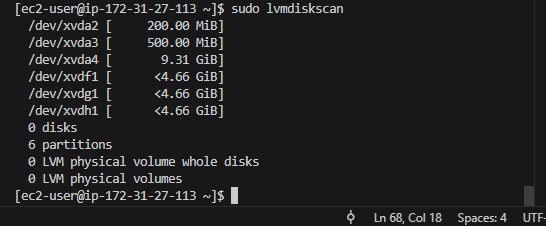
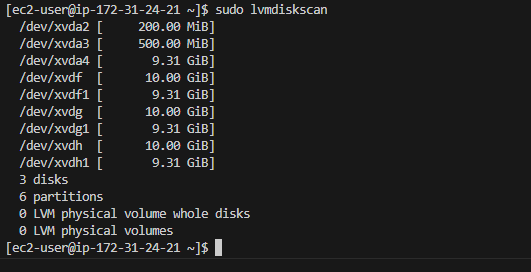
sent

Changed region(s): [[0.0, 0.0, 0.6328, 0.9602], [0.8437, 0.8053, 1.0, 0.9912], [0.6328, 0.9292, 0.8136, 0.9912]]

diff --git a/09.Three-Tier Arch with LVM Storage/Readme.md b/09.Three-Tier Arch with LVM Storage/Readme.md
@@ -7,7 +7,10 @@
 ### Purpose: Implement a Three Tier Architecture WordPress Website  with LVN Storage Management
 
 
-Steps are in Two Parts:
+![Alt text](img/00.three_tier.png)
+
+
+Projects steps are in Three Parts:
 
 Part 1
 
@@ -44,9 +47,9 @@ You can actually select the whole disk volume for partition
 
 
 3. Create Primary Partition in Volumes
-    ```sudo parted -s /dev/xvdf mkpart primary ext4 1 5G```  Command creates new partition in individual disk/volume xvdf
-    ```sudo parted -s /dev/xvdg mkpart primary ext4 1 5G```  Command creates new partition in individual disk/volume xvdg
-    ```sudo parted -s /dev/xvdh mkpart primary ext4 1 5G```  Command creates new partition in individual disk/volume xvdh
+    ```sudo parted -s /dev/xvdf mkpart primary ext4 1 10G```  Command creates new partition in individual disk/volume xvdf
+    ```sudo parted -s /dev/xvdg mkpart primary ext4 1 10G```  Command creates new partition in individual disk/volume xvdg
+    ```sudo parted -s /dev/xvdh mkpart primary ext4 1 10G```  Command creates new partition in individual disk/volume xvdh
 
     ![Alt text](img/2a.partition.png)
 
@@ -122,7 +125,7 @@ You can actually select the whole disk volume for partition
 9.  Finally,
 
    ```sudo lsblk```
-   ![Alt text](img/3d.interesting.png)
+   ![Alt text](img/3d.lsblk.png)
 
     
    Format the logical volumes
@@ -159,24 +162,26 @@ You can actually select the whole disk volume for partition
 
    sudo blkid
 
-   Update /etc/fstab  with the UUIDs of app-lv in boot line and logs-lv in the other with the `sudo vi /etc/fstab`
+   Update /etc/fstab  with the UUIDs of app-lv in boot line and logs-lv in the other with the 
+   
+   `sudo vi /etc/fstab`
 
-   sudo mount -a
+   `sudo mount -a`
 
-   sudo systemctl daemon-reload
+   `sudo systemctl daemon-reload`
 
    ***
  
-
-   ![Alt text](img/4a.copylogs.png) 
+  
+   ![Alt text](img/4a.resync.png) 
    
-   ![Alt text](img/4b.resync.png) 
+   ![Alt text](img/4b.blkid.png) 
    
-   ![Alt text](img/4c.blkid.png) 
+   ![Alt text](img/4c.vi.png) 
+   UUID="902391bc-1b25-467b-9254-62509d0a85bd  apps
+   UUID="28dee8af-8305-4c3b-8056-0319f1d3f301  logs
    
-   ![Alt text](img/4d.vi.png) 
-   
-   ![Alt text](img/4e.propermount.png) 
+   ![Alt text](img/4d.propermount.png) 
    
    ![Alt text](img/4f.df-h.png)
 
@@ -228,11 +233,9 @@ Configure SELinux Policies
     sudo setsebool -P httpd_can_network_connect=1
 
 
-Install MySQL Client
 
-Connect to remote MYSQL SERVER
 
-Test your setup 
+
 
 
 
@@ -261,6 +264,7 @@ Part 2
 ![Alt text](img/6a.db_vols.png) 
 
 ![Alt text](img/6b.vol.png) 
+
 Volume was attached from the Launch of Instance
 
 2. Create and attach 3 Volumes to the DB Server
@@ -269,14 +273,18 @@ Volume was attached from the Launch of Instance
 #### create a label for the attached volume
 ***
 sudo parted -s /dev/xvdb mklabel msdos   
+
 sudo parted -s /dev/xvdc mklabel msdos
+
 sudo parted -s /dev/xvdd mklabel msdos
 ***
 
 #### create Only One partition in each the attached volume
 ***
 sudo parted -s /dev/xvdb mkpart primary ext4 1 10G
+
 sudo parted -s /dev/xvdc mkpart primary ext4 1 10G
+
 sudo parted -s /dev/xvdd mkpart primary ext4 1 10G
 ***
 ![Alt text](img/6c.lb_partition.png)
@@ -284,8 +292,10 @@ sudo parted -s /dev/xvdd mkpart primary ext4 1 10G
 
 #### Format the partitions
 ***
-sudo mkfs.ext4 /dev/xvdb    
+sudo mkfs.ext4 /dev/xvdb 
+
 sudo mkfs.ext4 /dev/xvdc
+
 sudo mkfs.ext4 /dev/xvdd    
 ***
 ![Alt text](img/6d.formatting.png)
@@ -294,7 +304,10 @@ sudo mkfs.ext4 /dev/xvdd
 #### Install lvm
 ***
 sudo yum install lvm2   installs lvm for storage management and utility
+
 sudo lvmdiskscan
+
+
 
 #### Create Physical Volumes
 ***
@@ -309,15 +322,19 @@ pvcreate /dev/xvdd1
 
 #### Create Volume Group(VG)
 ***
-sudo vgcreate webdata-vg /dev/xvdb1 /dev/xvdc1 /dev/xvdd1  // Collate the physical volume into a volume group, which can be further divided into logical groups.
+sudo vgcreate webdata-vg /dev/xvdb1 /dev/xvdc1 /dev/xvdd1  // Collate the physical volume into a volume group, which can be further divided into logical groups.  // I should have used dbdata-vg here. I have to rename it.
 
 sudo vgrename webdata-vg dbdata-vg     // Change name from webdata to dbdata-vg
+
 sudo vgdisplay                        // Display name  of vg
+
 sudo vgs                             //Diplay content of vg
 ***
 
 ![Alt text](img/6f.vg_create.png) 
 ![Alt text](img/6g.x_vgname.png)
+
+
 
 
 #### Create the Logical Volume(LV) in the VG with relevant properties 
@@ -332,9 +349,11 @@ sudo lvs lists and describe logical volumes available
 ![Alt text](img/6h.lv_create.png)
 
 
+
 #### Format LV
 ***
 sudo mkfs -t ext4 /dev/dbdata-vg/db-lv
+
 sudo mkfs -t ext4 /dev/dbdata-vg/logs-lv
 ***
 ![Alt text](img/6i.format_lv.png)
@@ -379,10 +398,11 @@ ea3ff10b-2ae7-490d-9348-4e83310c9983 db--lv
 
 #### Install MySQL Server
 
+***
 sudo yum update
 sudo yum install mysql-server
 
-sudo systemctl status mysqld
+sudo systemctl status mysqld 
 
 if not running
 
@@ -400,7 +420,7 @@ mysql> GRANT ALL ON wordpress.* TO 'tope'@'172.31.24.21';   //172.31.24.21 <Web-
 mysql> FLUSH PRIVILEGES;
 mysql> SHOW DATABASES;
 
-mysql> SELECT user FROM mysql.user;    displays a list of users on the BD
+mysql> SELECT user FROM mysql.user;    displays a list of users on the DB
 mysql> SHOW GRANTS FOR 'tope'@'172.31.24.21';  display priviledges of a user
 
 
@@ -410,34 +430,67 @@ mysql> SHOW GRANTS FOR 'tope'@'172.31.24.21';  display priviledges of a user
 
 ![Alt text](img/7b.serversideshow.png)
 
+![Alt text](img/7c.usersMysql.png)
 
 
 
 
+Part 3:
 
-d. Mount the db-lv and db-pv on /db
+#### Remote Connection to Database : 
 
-4. a. Install MYSQL SERVER 
-   b. Configure Root User
-   c. Open port 3306 for WebServer only remote connection
+```sudo dnf install mysql```
+
+![Alt text](img/8a.instalmysqlclient.png)
+
+The syntax is: mysql -h host -P port -u user -p
+
+```mysql -h 172.31.42.143 -P 3306 -u tope -p```
+
+![Alt text](img/8a.remoteDB.png)
 
 
 
+#### Change the permissions and configuration so Apache could use WordPress
 
-(Altaro: Hyper-v Storage Best-Pratices)[https://www.altaro.com/hyper-v/hyper-v-storage-best-practices-configuration/]
+1. Make sure that the files and directories of your WordPress installation are owned by the Apache user (usually www-data) and group. 
+For example, if your WordPress files are in /var/www/html, you can use the command
 
-[Microsoft: Deploy Storage Spaces on a stand-alone server](https://learn.microsoft.com/en-us/windows-server/storage/storage-spaces/deploy-standalone-storage-spaces)
+```sudo chown www-data:www-data -R /var/www/html```
+
+
+2. Make sure that the files and directories of your WordPress installation have the correct permissions. You can use the chmod command to do this. For example, you can use the commands2:
+
+```sudo find /var/www/html -type d -exec chmod 755 {} \;```
+
+```sudo find /var/www/html -type f -exec chmod 644 {} \;```
+
+These commands will set the permissions of the directories to 755 (rwxr-xr-x) and the files to 644 (rw-r–r–), which means that the owner can read, write, and execute, while the group and others can only read and execute.
+
+3. Make sure that the Apache configuration file allows the use of mod_rewrite, which is a module that WordPress uses to create SEO-friendly URLs. You can use the a2enmod command to enable mod_rewrite. For example, you can use the command3:
+
+```sudo a2enmod rewrite```
+
+
+4. Make sure that the Apache configuration file sets the document root to the directory where your WordPress files are located. You can use a text editor to edit the configuration file, which is usually located at /etc/apache2/sites-available/000-default.conf.
+
+```sudo nano /etc/apache2/sites-available/000-default.conf.```
+
+
+
 
 
 
 #### REFERENCES
 
+1. (Altaro: Hyper-v Storage Best-Pratices)[https://www.altaro.com/hyper-v/hyper-v-storage-best-practices-configuration/]
 
+2. [Microsoft: Deploy Storage Spaces on a stand-alone server](https://learn.microsoft.com/en-us/windows-server/storage/storage-spaces/deploy-standalone-storage-spaces)
 
-1. [Brentozar: Does Separating Data and Log Files Make Your Server More Reliable?](https://www.brentozar.com/archive/2017/06/separating-data-log-files-make-server-reliable/)
+3. [Brentozar: Does Separating Data and Log Files Make Your Server More Reliable?](https://www.brentozar.com/archive/2017/06/separating-data-log-files-make-server-reliable/)
 
-2. [forbes.com: Why Migrate To The Cloud: The Basics, Benefits And Real-Life Examples](https://www.forbes.com/sites/forbestechcouncil/2021/03/12/why-migrate-to-the-cloud-the-basics-benefits-and-real-life-examples/?sh=127748385e27)
+4. [forbes.com: Why Migrate To The Cloud: The Basics, Benefits And Real-Life Examples](https://www.forbes.com/sites/forbestechcouncil/2021/03/12/why-migrate-to-the-cloud-the-basics-benefits-and-real-life-examples/?sh=127748385e27)
 
-3. [dba.stackexchange.com: SQL Server - Benefits of splitting databases across different logical drives](https://dba.stackexchange.com/questions/280269/sql-server-benefits-of-splitting-databases-across-different-logical-drives)
+5. [dba.stackexchange.com: SQL Server - Benefits of splitting databases across different logical drives](https://dba.stackexchange.com/questions/280269/sql-server-benefits-of-splitting-databases-across-different-logical-drives)
 
-4. [Unix&Linux: Why use UUIDs in /etc/fstab instead of device names? [duplicate]](https://unix.stackexchange.com/questions/423693/why-use-uuids-in-etc-fstab-instead-of-device-names)
+6. [Unix&Linux: Why use UUIDs in /etc/fstab instead of device names? [duplicate]](https://unix.stackexchange.com/questions/423693/why-use-uuids-in-etc-fstab-instead-of-device-names)
